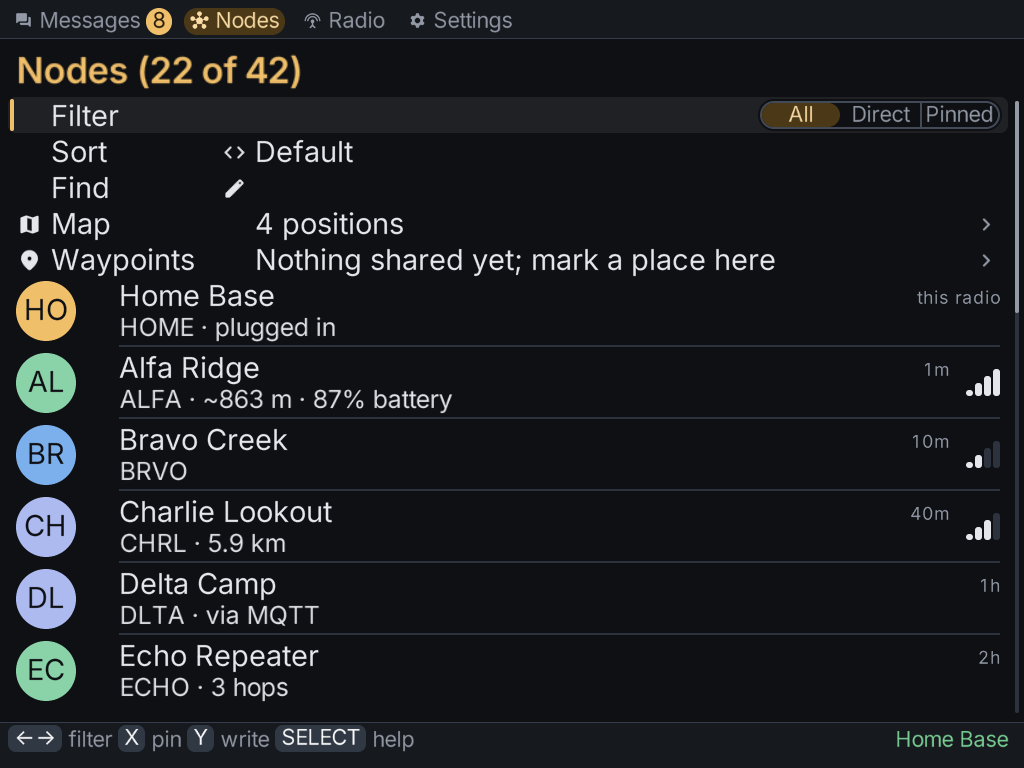
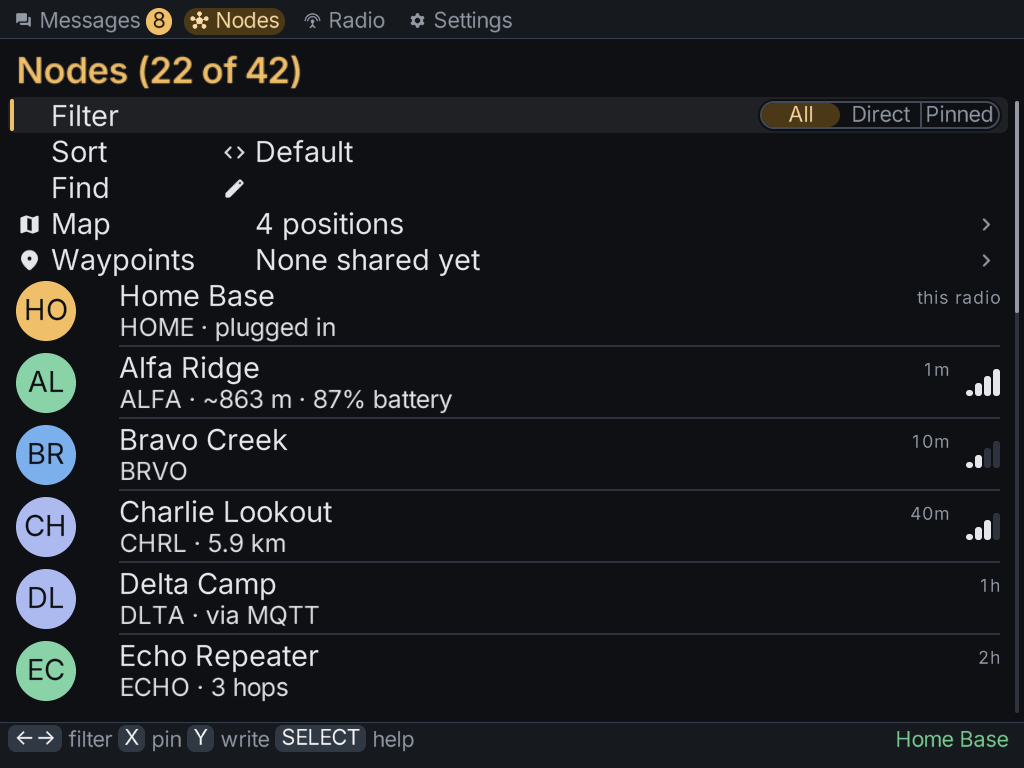
fix(nodes): shorten the empty Waypoints row
"Nothing shared yet; mark a place here" was the longest value on the
Nodes list's lead rows. "None shared yet" says the same; the chevron
already says the row opens somewhere a place can be made.

Claude-Session: https://claude.ai/code/session_01XP3pLcYhYNnwjgsgPgcqB7

Changed region(s): [[0.2812, 0.3125, 0.75, 0.375]]

diff --git a/src/i18n/locale_es.c b/src/i18n/locale_es.c
@@ -203,7 +203,7 @@ const char *const mesh_i18n_table_es[MESH_STR_COUNT] = {
     [MESH_STR_MAP_ROW_EMPTY] = "Nada ha informado de su posición todavía",
     [MESH_STR_WAYPOINTS_ROW_COUNT_ONE] = "%u lugar",
     [MESH_STR_WAYPOINTS_ROW_COUNT_OTHER] = "%u lugares",
-    [MESH_STR_WAYPOINTS_ROW_EMPTY] = "Nada compartido; marca un lugar aquí",
+    [MESH_STR_WAYPOINTS_ROW_EMPTY] = "Nada compartido aún",
     [MESH_STR_TOAST_MAP_NO_FIXES] = "Nada en la malla tiene posición todavía",
     [MESH_STR_MAP_TITLE] = "Mapa",
     [MESH_STR_MAP_BADGE_IN_VIEW] = "%u de %u",
